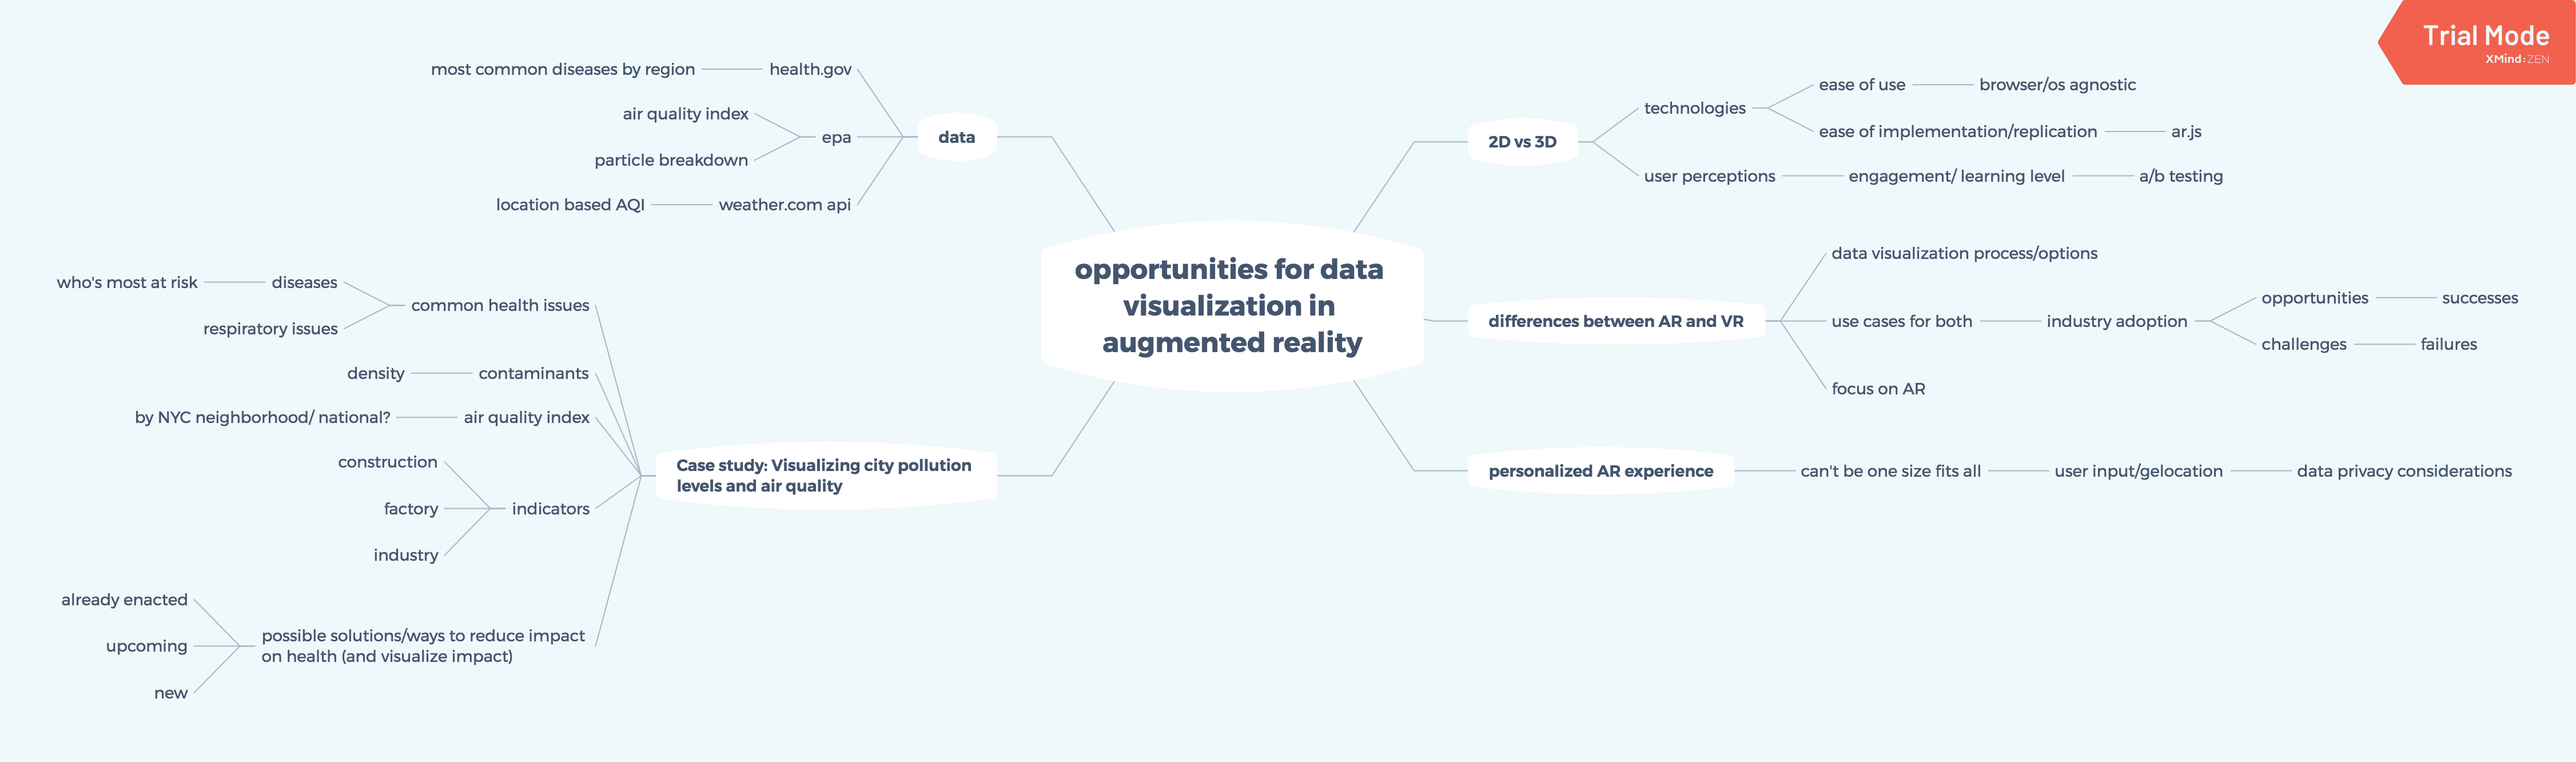
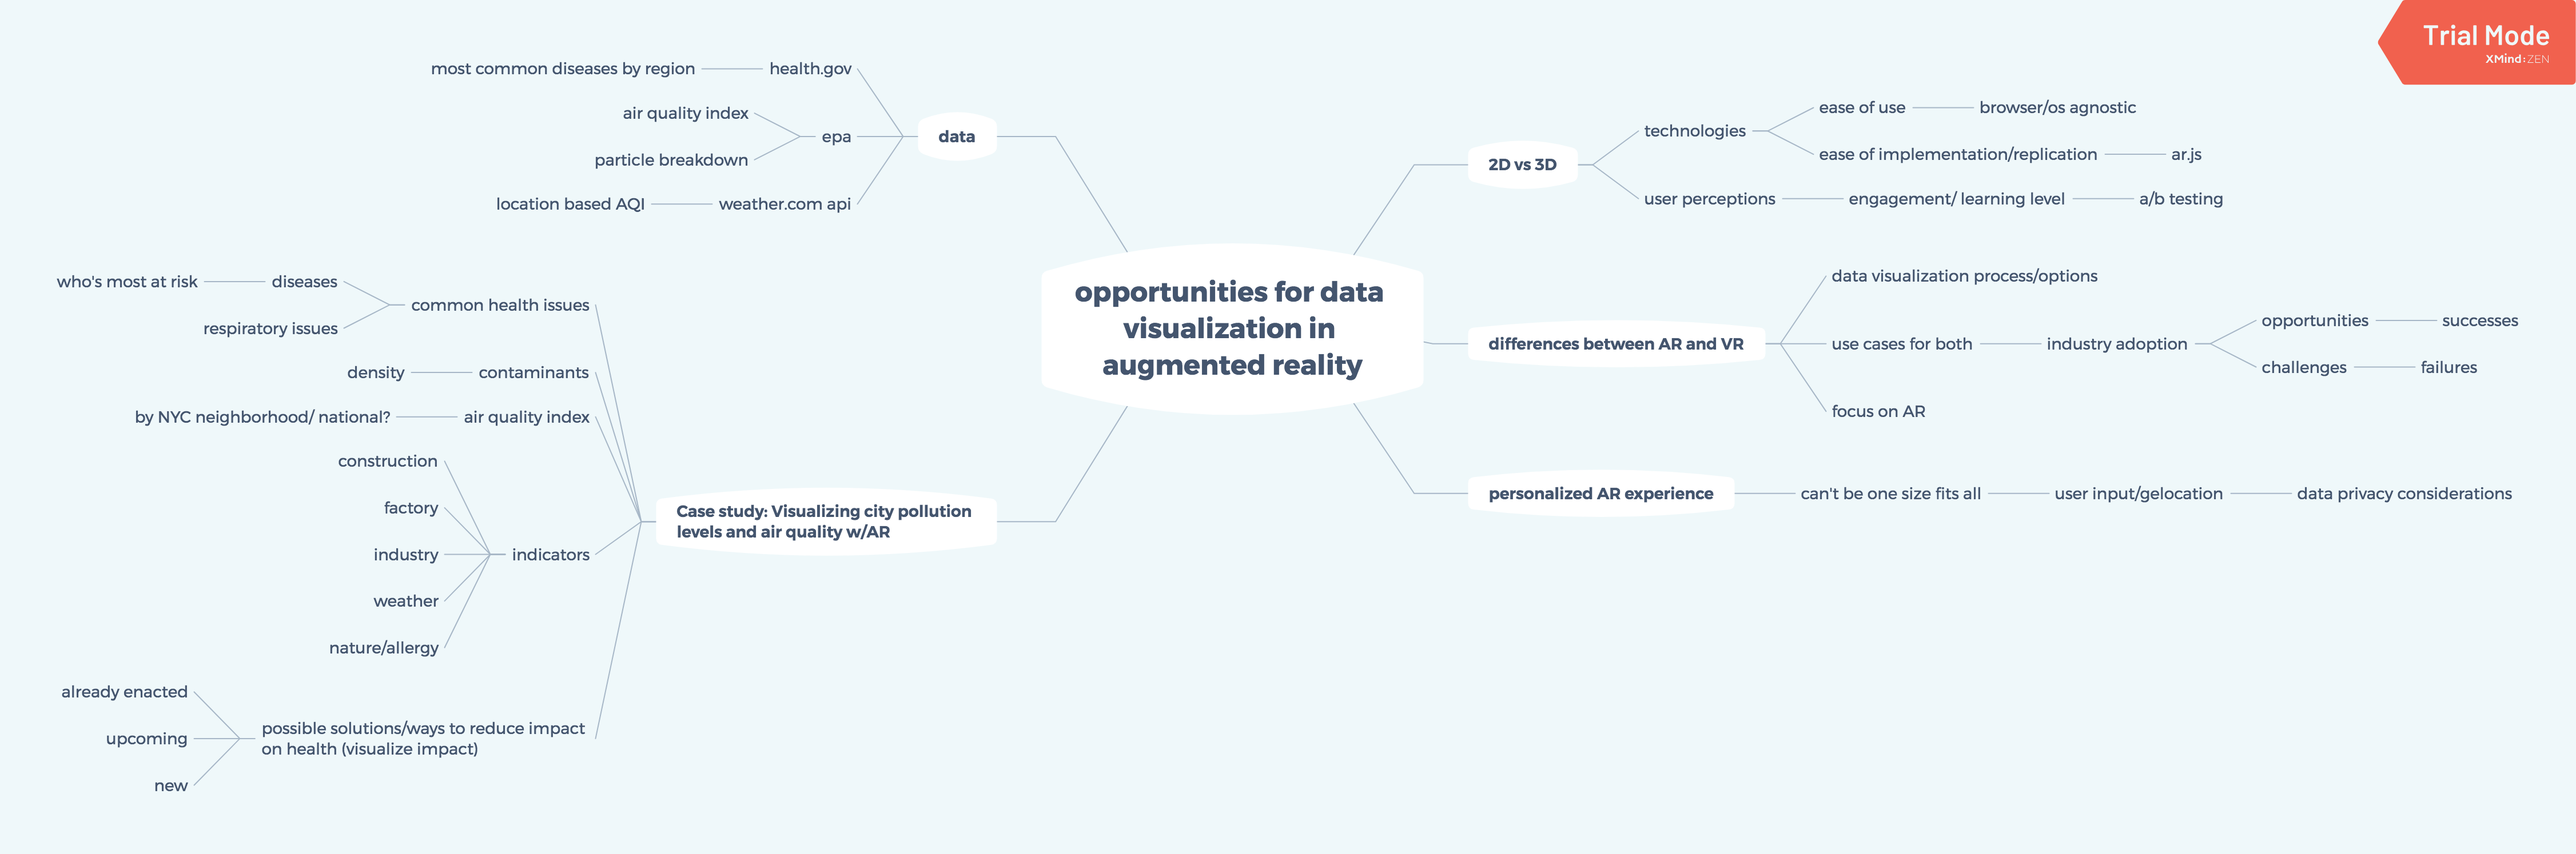
concept 3 edits

diff --git a/process/concept3_outline.md b/process/concept3_outline.md
@@ -44,7 +44,7 @@
 
 	- data privacy considerations
 
-## Case study: Visualizing city pollution levels and air quality
+## Case study: Visualizing city pollution levels and air quality w/AR
 
 ### common health issues
 
@@ -67,8 +67,10 @@
 - construction
 - factory
 - industry
+- weather
+- nature/allergy
 
-### possible solutions/ways to reduce impact on health (and visualize impact)
+### possible solutions/ways to reduce impact on health (visualize impact)
 
 - already enacted
 - upcoming
